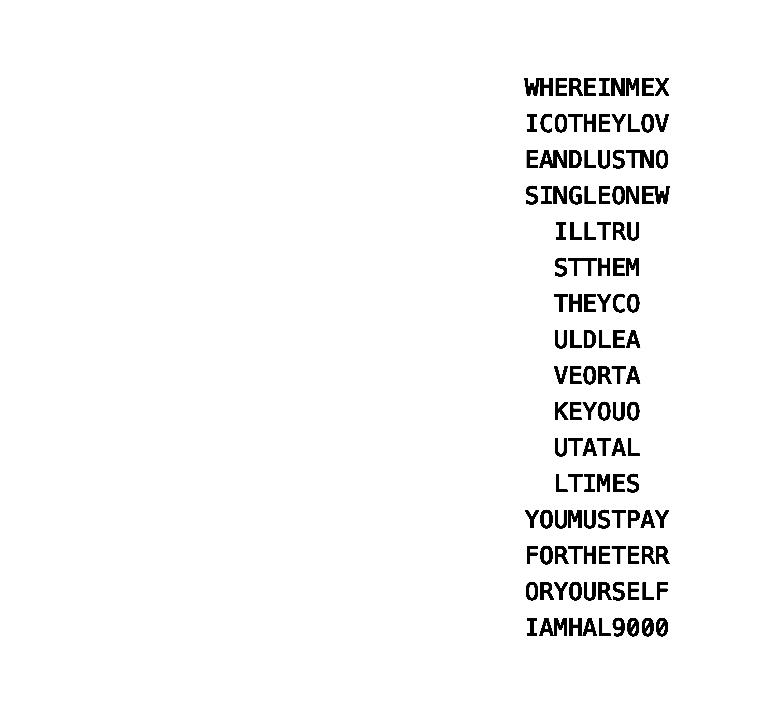
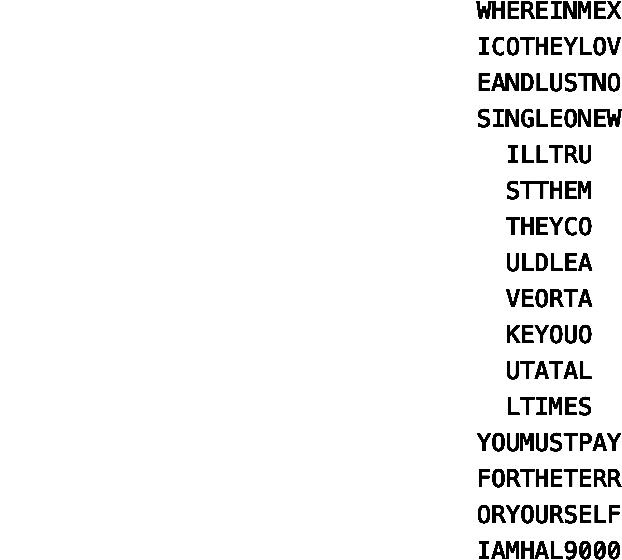
ADDED Splashpage styling and responsive design

Changed region(s): [[0.672, 0.0607, 1.0, 1.0], [0.7637, 0.0, 1.0, 0.0304]]

diff --git a/frontend/src/components/splashpage/splashpage.css b/frontend/src/components/splashpage/splashpage.css
@@ -1,19 +1,56 @@
-.splashpage-main-content {
+.sP-content-main {
     display: flex;
     overflow: hidden;
     flex-direction: column;
-    justify-content: flex-end;
-    align-items: flex-end;
+    justify-content: center;
+    align-items: center;
     width: 100vw;
     height: 475px;
     border-bottom: 1px solid black;
     background-color: rgba(109, 195, 248, 0.5);
 }
 
-.splashpage-main-content > p {
+.sP-content-center {
+    display: flex;
+    flex-direction: row;
+    justify-content: space-between;
+    width: 85vw;
+    max-width: 750px;
+    padding: 0 10px 0 10px;
+}
+
+.sP-content-left {
+    display: flex;
+    flex-direction: column;
+    justify-content: flex-end;
+    align-items: left;
+    justify-content: flex-end;
+    padding: 90px 0 0 0;
+}
+
+.sP-content-left > * {
+    margin: 0;
+}
+
+.sP-content-right {
+    display: flex;
+    flex-direction: column;
+    justify-content: flex-end;
+    align-items: right;
+    padding: 0 0 30px 0;
+}
+
+.sP-heading {
     font-family: serif;
+    font-size: 85px;
     font-weight: 400;
-    font-size: 35px;
+    margin: 20px 0 20px 0;
+}
+
+.sP-subheading {
+    color: white;
+    font-size: 20px;
+    /* margin: 0 0 10px 0; */
 }
 
 .text-art {
@@ -21,7 +58,7 @@
 }
 
 .ai-text-art {
-    width: 50vw;
+    width: 300px;
 }
 
 .nav-bar-space-background {
@@ -35,4 +72,20 @@
 .nav-bar-space-filler {
     width: 100vw;
     height: 75px;
+}
+
+@media (max-width: 732px) {
+    .sP-heading,
+    .sP-subheading {
+        display: none;
+    }
+    .ai-text-art {
+        width: 60vw;
+    }
+    .sP-content-main {
+        display: flex;
+        flex-direction: column;
+        justify-content: flex-end;
+        align-items: right;
+    }
 }

diff --git a/frontend/src/components/mainFeed/index.js b/frontend/src/components/mainFeed/index.js
@@ -8,9 +8,11 @@ const MainFeed = () => {
                 <div className='mF-story-details'>
                     <div className='mF-story-author'>
                         <img className='mF-author-profile' src={require('../../assets/avatars/hal9000.png')}/>
-                        <p>HAL 9000</p>
+                        <p>by HAL 9000</p>
                     </div>
-                    <div className='mF-story-title'></div>
+                    <div className='mF-story-title'>
+                        <h2>Putin Reconsiders</h2>
+                    </div>
                     <div className='mF-story-sample'>
                         <p>An anonymous source in Kremlin says Vladimir Putin regrets his decision to invade Ukraine in a desperate attempt to impress Beijing. But the source says Putin's advisers did not offer him a full explanation for the decision. A Putin ally in the Kremlin, Dmitri Peskov, says it is impossible to pin down why Putin changed his mind. He said Russia's diplomatic and intelligence service are still preparing a new explanation, but Peskov said Putin is unlikely to give one before the United States holds elections in November. And Putin may be reluctant to put a face to the explanation.</p>
                     </div>

diff --git a/frontend/src/components/splashpage/index.js b/frontend/src/components/splashpage/index.js
@@ -14,8 +14,16 @@ function SplashPage() {
     return (
         <>
             {!session ?
-                <div className='splashpage-main-content'>
-                    <img className='ai-text-art' src={require('../../assets/ai-text-art.png')}/>
+                <div className='sP-content-main'>
+                    <div className='sP-content-center'>
+                        <div className='sP-content-left'>
+                            <p className='sP-subheading'>Your idea. We do the writing.</p>
+                            <p className='sP-heading'>Future belongs to robots.</p>
+                        </div>
+                        <div className='sP-content-right'>
+                            <img className='ai-text-art' src={require('../../assets/ai-text-art.png')}/>
+                        </div>
+                    </div>
                 </div>
                 :
                 <>

diff --git a/frontend/src/components/navigation/navigation.css b/frontend/src/components/navigation/navigation.css
@@ -13,7 +13,8 @@
     display: flex;
     justify-content: space-between;
     align-items: center;
-    width: 90vw;
+    width: 85vw;
+    max-width: 750px;
 }
 
 .medium-logo {
@@ -39,6 +40,7 @@
     font-size: 14px;
     color: white;
     padding: 10px 15px 10px 15px;
+    margin: 0;
 }
 
 .btn-black:hover {

diff --git a/frontend/src/components/mainFeed/mainFeed.css b/frontend/src/components/mainFeed/mainFeed.css
@@ -6,11 +6,12 @@
 
 .mF-content-main {
     display: flex;
-    flex-direction: row;
-    justify-content: center;
+    flex-direction: column;
+    justify-content: flex-start;
     align-items: center;
 }
 
 .mF-content-story {
     width: 85vw;
+    max-width: 750px;
 }
